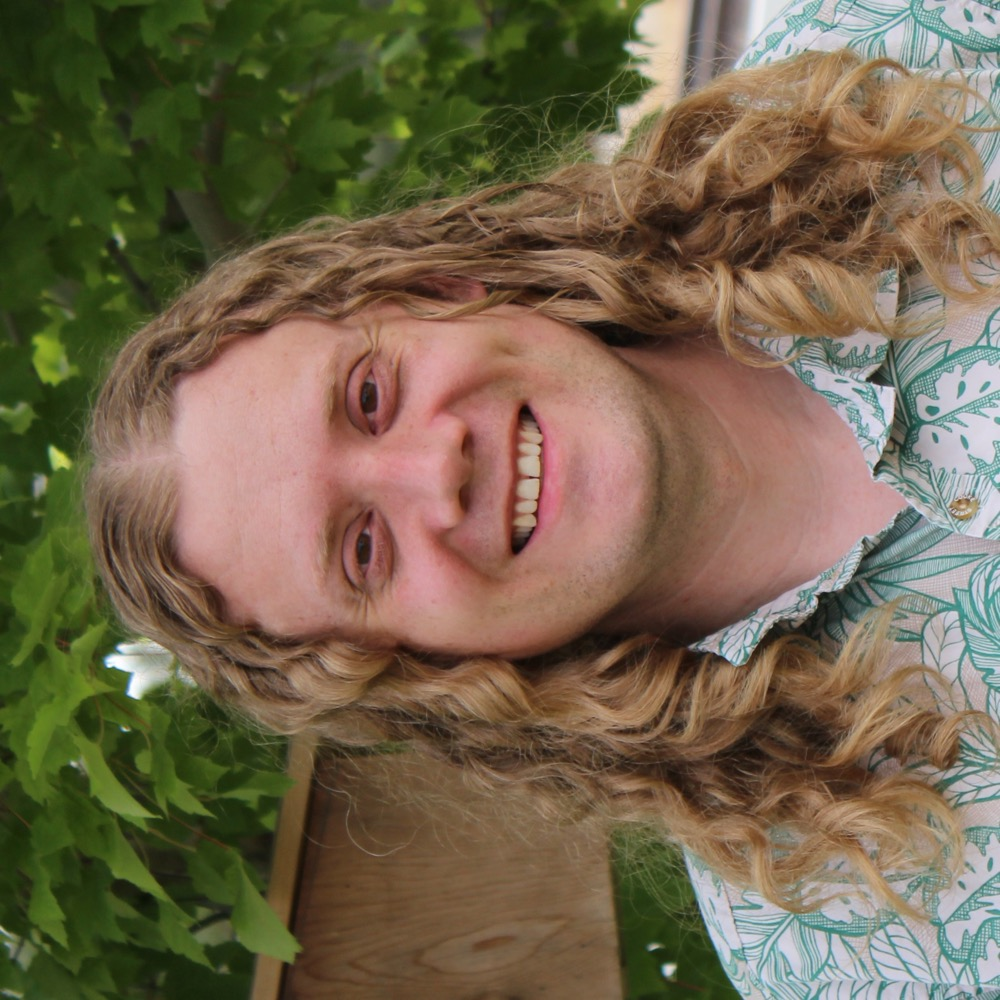
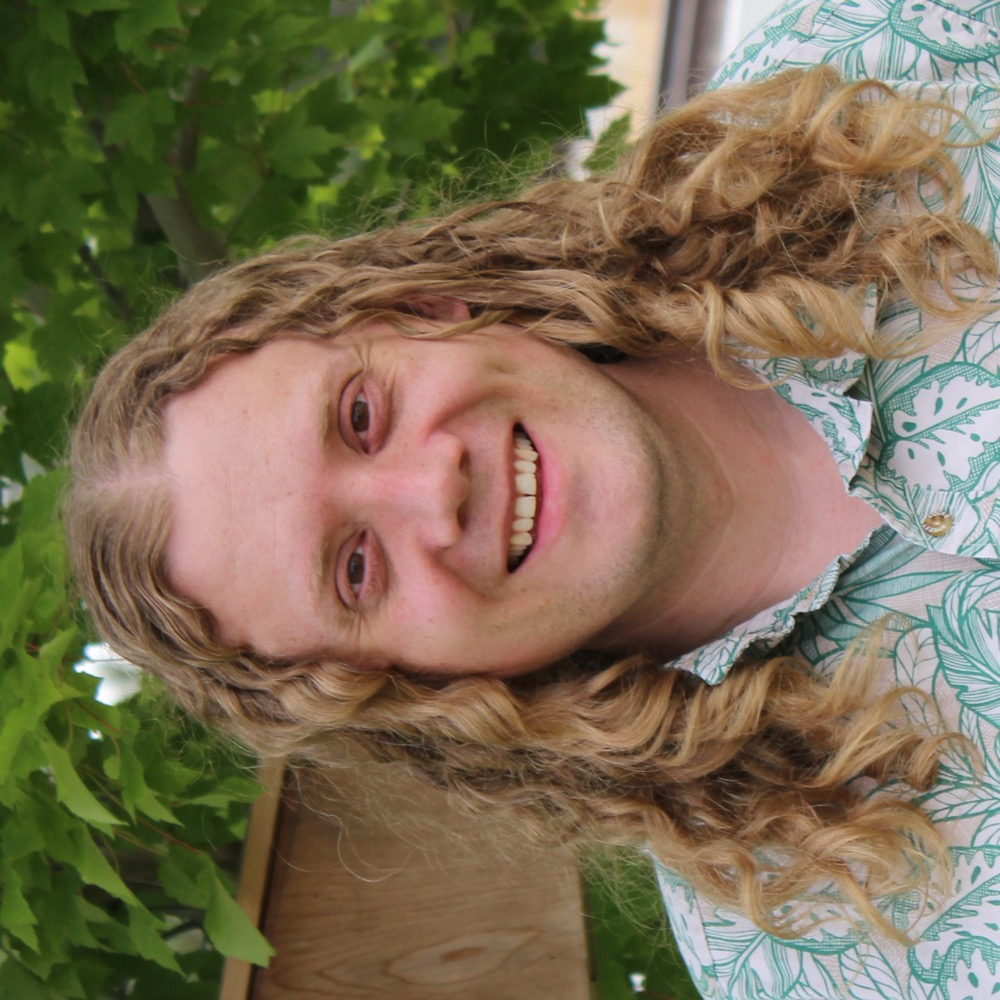
feat(site): update headshot and philosophy navigation

diff --git a/writing.html b/writing.html
@@ -7,7 +7,7 @@
       name="description"
       content="Operating philosophy, notes, technology taste, and reading list from Jordan Davidson."
     />
-    <title>Jordan Davidson — Writing & Notes</title>
+    <title>Jordan Davidson — Philosophy</title>
     <link rel="canonical" href="https://resume.fromnibly.com/writing.html" />
     <link rel="alternate" type="application/json" href="data/writing.json" />
     <link rel="stylesheet" href="assets/css/home.css" />
@@ -21,7 +21,7 @@
         </a>
         <div class="nav-links">
           <a href="experience.html">Experience</a>
-          <a href="writing.html">Writing</a>
+          <a href="writing.html">Philosophy</a>
           <a href="resume.html">Résumé</a>
           <a href="index.html#contact">Contact</a>
         </div>
@@ -38,7 +38,7 @@
           </summary>
           <div class="mobile-menu-panel">
             <a href="experience.html">Experience</a>
-            <a href="writing.html">Writing</a>
+            <a href="writing.html">Philosophy</a>
             <a href="resume.html">Résumé</a>
             <a href="index.html#contact">Contact</a>
           </div>
@@ -47,7 +47,7 @@
     </header>
     <main>
       <section class="subpage-hero section-shell">
-        <p class="eyebrow">Writing & notes</p>
+        <p class="eyebrow">Philosophy</p>
         <h1>The mental models behind the work.</h1>
         <p class="hero-lede">
           The resume gives the shape of the work. These notes explain how I

diff --git a/index.html b/index.html
@@ -23,7 +23,7 @@
         </a>
         <div class="nav-links">
           <a href="experience.html">Experience</a>
-          <a href="writing.html">Writing</a>
+          <a href="writing.html">Philosophy</a>
           <a href="resume.html">Résumé</a>
           <a href="index.html#contact">Contact</a>
         </div>
@@ -40,7 +40,7 @@
           </summary>
           <div class="mobile-menu-panel">
             <a href="experience.html">Experience</a>
-            <a href="writing.html">Writing</a>
+            <a href="writing.html">Philosophy</a>
             <a href="resume.html">Résumé</a>
             <a href="index.html#contact">Contact</a>
           </div>
@@ -88,7 +88,6 @@
             <img src="_media/headshot.jpg" alt="Jordan Davidson" />
           </div>
           <div>
-            <p class="card-kicker">Resume snapshot</p>
             <h2>Platform engineer who likes making the hard path disappear.</h2>
           </div>
           <dl class="contact-list">

diff --git a/always-make-shovels.html b/always-make-shovels.html
@@ -19,7 +19,7 @@
         </a>
         <div class="nav-links">
           <a href="experience.html">Experience</a>
-          <a href="writing.html">Writing</a>
+          <a href="writing.html">Philosophy</a>
           <a href="resume.html">Résumé</a>
           <a href="index.html#contact">Contact</a>
         </div>
@@ -36,7 +36,7 @@
           </summary>
           <div class="mobile-menu-panel">
             <a href="experience.html">Experience</a>
-            <a href="writing.html">Writing</a>
+            <a href="writing.html">Philosophy</a>
             <a href="resume.html">Résumé</a>
             <a href="index.html#contact">Contact</a>
           </div>

diff --git a/books.html b/books.html
@@ -16,7 +16,7 @@
         </a>
         <div class="nav-links">
           <a href="experience.html">Experience</a>
-          <a href="writing.html">Writing</a>
+          <a href="writing.html">Philosophy</a>
           <a href="resume.html">Résumé</a>
           <a href="index.html#contact">Contact</a>
         </div>
@@ -33,7 +33,7 @@
           </summary>
           <div class="mobile-menu-panel">
             <a href="experience.html">Experience</a>
-            <a href="writing.html">Writing</a>
+            <a href="writing.html">Philosophy</a>
             <a href="resume.html">Résumé</a>
             <a href="index.html#contact">Contact</a>
           </div>

diff --git a/experience.html b/experience.html
@@ -23,7 +23,7 @@
         </a>
         <div class="nav-links">
           <a href="experience.html">Experience</a>
-          <a href="writing.html">Writing</a>
+          <a href="writing.html">Philosophy</a>
           <a href="resume.html">Résumé</a>
           <a href="index.html#contact">Contact</a>
         </div>
@@ -40,7 +40,7 @@
           </summary>
           <div class="mobile-menu-panel">
             <a href="experience.html">Experience</a>
-            <a href="writing.html">Writing</a>
+            <a href="writing.html">Philosophy</a>
             <a href="resume.html">Résumé</a>
             <a href="index.html#contact">Contact</a>
           </div>

diff --git a/product-vs-project.html b/product-vs-project.html
@@ -19,7 +19,7 @@
         </a>
         <div class="nav-links">
           <a href="experience.html">Experience</a>
-          <a href="writing.html">Writing</a>
+          <a href="writing.html">Philosophy</a>
           <a href="resume.html">Résumé</a>
           <a href="index.html#contact">Contact</a>
         </div>
@@ -36,7 +36,7 @@
           </summary>
           <div class="mobile-menu-panel">
             <a href="experience.html">Experience</a>
-            <a href="writing.html">Writing</a>
+            <a href="writing.html">Philosophy</a>
             <a href="resume.html">Résumé</a>
             <a href="index.html#contact">Contact</a>
           </div>

diff --git a/proof-points-draft.html b/proof-points-draft.html
@@ -25,7 +25,7 @@
         </a>
         <div class="nav-links">
           <a href="experience.html">Experience</a>
-          <a href="writing.html">Writing</a>
+          <a href="writing.html">Philosophy</a>
           <a href="resume.html">Résumé</a>
           <a href="index.html#contact">Contact</a>
         </div>
@@ -42,7 +42,7 @@
           </summary>
           <div class="mobile-menu-panel">
             <a href="experience.html">Experience</a>
-            <a href="writing.html">Writing</a>
+            <a href="writing.html">Philosophy</a>
             <a href="resume.html">Résumé</a>
             <a href="index.html#contact">Contact</a>
           </div>

diff --git a/tech.html b/tech.html
@@ -16,7 +16,7 @@
         </a>
         <div class="nav-links">
           <a href="experience.html">Experience</a>
-          <a href="writing.html">Writing</a>
+          <a href="writing.html">Philosophy</a>
           <a href="resume.html">Résumé</a>
           <a href="index.html#contact">Contact</a>
         </div>
@@ -33,7 +33,7 @@
           </summary>
           <div class="mobile-menu-panel">
             <a href="experience.html">Experience</a>
-            <a href="writing.html">Writing</a>
+            <a href="writing.html">Philosophy</a>
             <a href="resume.html">Résumé</a>
             <a href="index.html#contact">Contact</a>
           </div>

diff --git a/theme-park-experience.html b/theme-park-experience.html
@@ -19,7 +19,7 @@
         </a>
         <div class="nav-links">
           <a href="experience.html">Experience</a>
-          <a href="writing.html">Writing</a>
+          <a href="writing.html">Philosophy</a>
           <a href="resume.html">Résumé</a>
           <a href="index.html#contact">Contact</a>
         </div>
@@ -36,7 +36,7 @@
           </summary>
           <div class="mobile-menu-panel">
             <a href="experience.html">Experience</a>
-            <a href="writing.html">Writing</a>
+            <a href="writing.html">Philosophy</a>
             <a href="resume.html">Résumé</a>
             <a href="index.html#contact">Contact</a>
           </div>